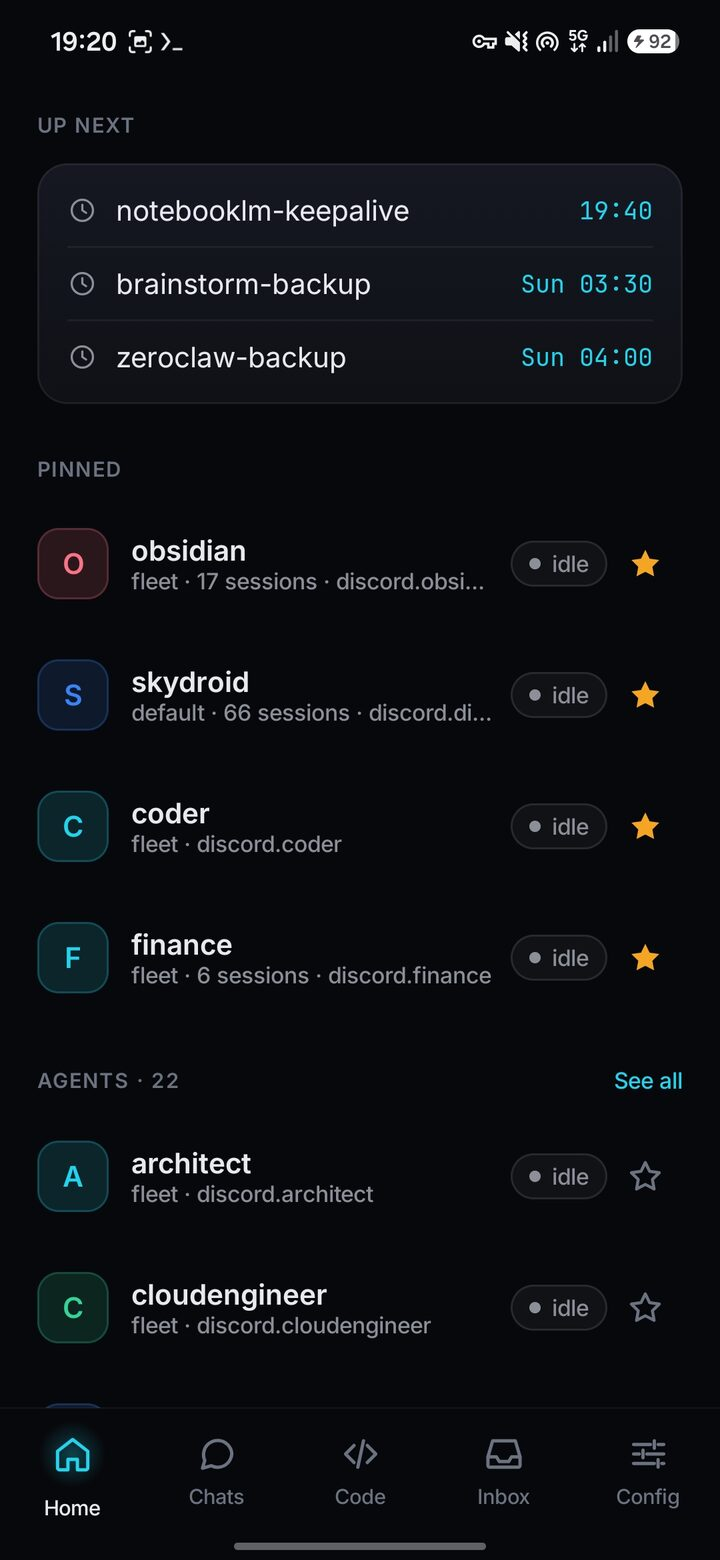
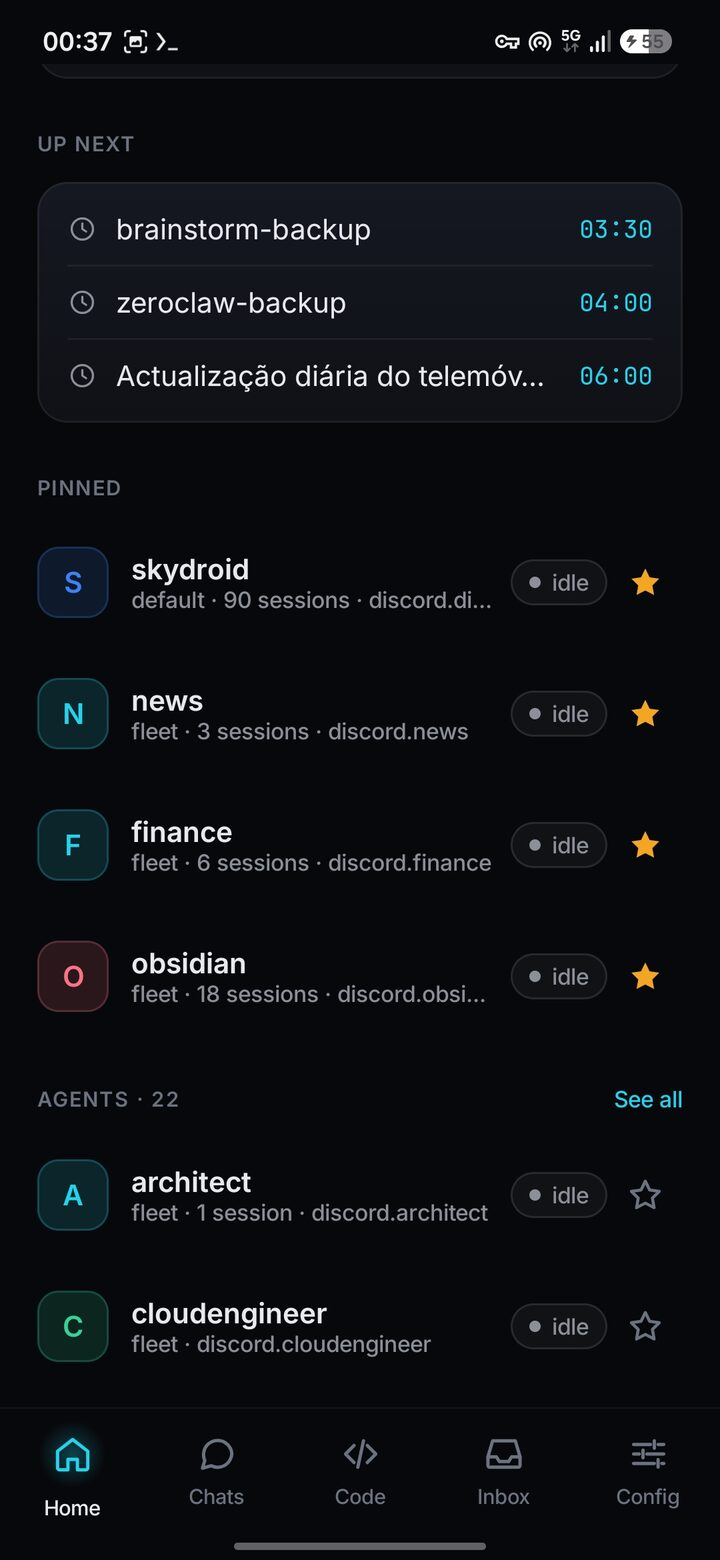
docs: README shows the new Home and Doctor, screenshots refreshed; changelog for 0.9.1

diff --git a/README.md b/README.md
@@ -23,7 +23,7 @@ Your [ZeroClaw](https://github.com/zeroclaw-labs/zeroclaw) agents, in your pocke
 </div>
 
 <p align="center">
-  <img src="docs/screenshots/home.jpg" width="24%" alt="Home: daemon status, memory, CPU, uptime and sessions">
+  <img src="docs/screenshots/home.jpg" width="24%" alt="Home: daemon status, memory, CPU, uptime, sessions and shortcuts to Automation, Workflows, Canvas and Doctor">
   <img src="docs/screenshots/chat.jpg" width="24%" alt="A chat with an agent, with a shell tool call and a formatted answer">
   <img src="docs/screenshots/code.jpg" width="24%" alt="The Code tab with folder-rooted sessions">
   <img src="docs/screenshots/config.jpg" width="24%" alt="The Config tab with searchable daemon settings">
@@ -41,8 +41,10 @@ memory all stay on the daemon.
 ## Features
 
 - **Home**: the daemon at a glance. Memory, CPU, uptime and active sessions,
-  which subsystems and channels are running, today's spend, the next
-  scheduled jobs, and your agents with pinned favourites at the top.
+  shortcuts to Automation, Workflows, Canvas and Doctor (whichever needs a
+  look, a failed job or a doctor error, comes first), which subsystems and
+  channels are running, today's spend, the next scheduled jobs, and your
+  agents with pinned favourites at the top. Each shortcut can be hidden.
 - **Chats** with any agent, across many sessions. Answers stream in with
   Markdown and code formatting, every tool call shows its arguments and
   output, and you can steer or stop a running turn. Send images, rename and
@@ -58,12 +60,12 @@ memory all stay on the daemon.
   suggested tools and the outputs of earlier steps. Set triggers, the
   execution mode, the agent and concurrency, run a workflow with optional
   input, and follow its runs and approvals live. If the daemon's SOP engine
-  is off, the app can turn it on for you, and the Home card can be hidden if
+  is off, the app can turn it on for you, and its Home shortcut can be hidden if
   you don't use SOPs.
 - **Canvas**: when an agent draws something with its `canvas` tool (a chart,
   a table, a diagram) in a chat or code session on the phone, the app keeps a
   copy, so you can open it again later, even after the daemon restarts (the
-  daemon keeps canvases in memory only). Open them from the Home card, from
+  daemon keeps canvases in memory only). Open them from Home, from
   the canvas tool call while it is on screen, or from the canvas icon at the
   top of the chat that drew them. HTML and SVG frames open in a sandboxed view
   that can run scripts and load chart libraries but cannot reach the app or
@@ -81,10 +83,16 @@ memory all stay on the daemon.
   resume it, delete it, and read each run's status, duration and full
   output. The scheduler's own switches are there too (they apply after the
   daemon restarts). Jobs defined in `config.toml` are shown read-only, and
-  the Home card can be hidden. **Automation needs a patched daemon**: see
+  its Home shortcut can be hidden. **Automation needs a patched daemon**: see
   [Automation: the cron patch](#automation-the-cron-patch). If you don't
   want to patch the daemon, don't use Automation; hide its card and nothing
   else changes.
+- **Doctor**: run ZeroClaw's own checks (`zeroclaw doctor`) from the phone
+  and read the findings grouped by category, filtered by errors, warnings
+  and passes. A finding about a channel or a model provider has a Fix button
+  that opens that entry in Config. Home shows the last run's result; the
+  doctor never runs on its own, only when you ask (Doctor on Home, or
+  Config → Doctor).
 - **Approvals**: when an agent asks for permission, approve or deny from the
   Inbox or straight from the notification. Nothing is ever approved without
   your tap.
@@ -105,7 +113,7 @@ memory all stay on the daemon.
 
 | | | |
 |:-:|:-:|:-:|
-| ![Home with the daemon status](docs/screenshots/home.jpg) | ![Home with scheduled jobs and pinned agents](docs/screenshots/home-agents.jpg) | ![The list of chats](docs/screenshots/chats.jpg) |
+| ![Home with the daemon status and the shortcuts list](docs/screenshots/home.jpg) | ![Home with scheduled jobs and pinned agents](docs/screenshots/home-agents.jpg) | ![The list of chats](docs/screenshots/chats.jpg) |
 | Home | Up next and pinned agents | Chats |
 | ![A chat streaming tool calls](docs/screenshots/chat-working.jpg) | ![A tool call opened with its arguments and output](docs/screenshots/tool-call.jpg) | ![Picking an agent for a new chat](docs/screenshots/new-chat.jpg) |
 | A turn running | Tool call details | New chat |
@@ -117,7 +125,7 @@ memory all stay on the daemon.
 
 | | | |
 |:-:|:-:|:-:|
-| ![The welcome screen with the pairing and OIDC options](docs/screenshots/onboarding.jpg) | ![Confirming the pairing code](docs/screenshots/pair-confirm.jpg) | ![The paired daemon and its certificate](docs/screenshots/pairing-settings.jpg) |
+| ![The welcome screen with the pairing and OIDC options](docs/screenshots/onboarding.jpg) | ![Confirming the pairing code](docs/screenshots/pair-confirm.jpg) | ![The paired daemon, its certificate and the Home shortcut switches](docs/screenshots/pairing-settings.jpg) |
 | Welcome | Compare the code | Paired daemon |
 | ![The OIDC sign-in form with the advanced WSS and gateway URLs](docs/screenshots/oidc-sign-in.jpg) | | |
 | Sign in with OIDC | | |
@@ -139,17 +147,17 @@ memory all stay on the daemon.
 
 | | | |
 |:-:|:-:|:-:|
-| ![Home with the Canvas card showing four saved canvases](docs/screenshots/canvas-home.jpg) | ![The list of saved canvases with their type, frame count and agent](docs/screenshots/canvas-list.jpg) | ![A bar chart an agent drew, opened from the list](docs/screenshots/canvas-chart.jpg) |
-| The Canvas card | Saved canvases | A chart an agent drew |
+| ![The list of saved canvases with their type, frame count and agent](docs/screenshots/canvas-list.jpg) | ![A bar chart an agent drew, opened from the list](docs/screenshots/canvas-chart.jpg) | |
+| Saved canvases | A chart an agent drew | |
 
 ### Automation
 
 | | | |
 |:-:|:-:|:-:|
-| ![The Automation card on Home with eight jobs and one degraded run](docs/screenshots/automation-home.jpg) | ![The list of scheduled jobs with their agent, type, schedule, status and next run](docs/screenshots/automation-list.jpg) | ![The scheduler settings sheet](docs/screenshots/automation-scheduler.jpg) |
-| The Automation card | Scheduled jobs | Scheduler settings |
-| ![A new shell job with its name, agent, schedule and command](docs/screenshots/automation-shell-job.jpg) | ![A new agent job with its prompt, model, session, tools, memory and delivery to a channel](docs/screenshots/automation-agent-job.jpg) | |
-| A shell job | An agent job with delivery | |
+| ![The list of scheduled jobs with their agent, type, schedule, status and next run](docs/screenshots/automation-list.jpg) | ![A new shell job with its name, agent, schedule and command](docs/screenshots/automation-shell-job.jpg) | ![A new agent job with its prompt, model, session, tools, memory and delivery to a channel](docs/screenshots/automation-agent-job.jpg) |
+| Scheduled jobs | A shell job | An agent job with delivery |
+| ![The scheduler settings sheet](docs/screenshots/automation-scheduler.jpg) | | |
+| Scheduler settings | | |
 
 ## Install
 

diff --git a/CHANGELOG.md b/CHANGELOG.md
@@ -6,6 +6,38 @@ All notable changes to this project are documented here. The format follows
 
 ## [Unreleased]
 
+## [0.9.1] - 2026-11-23
+
+### Added
+
+- Doctor: run ZeroClaw's doctor from the phone and read its findings grouped
+  by category, filtered by severity. A finding about a channel or a model,
+  TTS or transcription provider has a Fix button that opens that entry in
+  Config, and Back walks up through the section it landed in. Home shows the
+  last run (the doctor never runs on its own) and its shortcut can be hidden.
+
+### Changed
+
+- Home: Automation, Workflows, Canvas and Doctor are one list of shortcuts
+  instead of four full-width cards, with the status pill on the right and
+  whatever needs a look (red first, then amber) at the top.
+- Home: the memory, CPU, uptime and sessions tiles in each row are the same
+  height, and the memory and CPU bars sit on the same line.
+- Home: with pinned agents, three other agents are listed before "See all"
+  instead of six.
+- The CPU tile shows one decimal under 10 % and "<0.1%" for a trace load, so
+  an idle daemon no longer reads as 0 %.
+
+### Fixed
+
+- Up next: a long job name no longer runs into its time.
+
+### Daemon
+
+- In Termux on a phone without root, ZeroClaw cannot read `/proc/stat` and
+  reports 0 % CPU and no core count. The `zerodroid/android-process-cpu`
+  patch (included in `android-master-zerodroid`) fixes it; see the README.
+
 ## [0.9.0] - 2026-11-22
 
 ### Added
